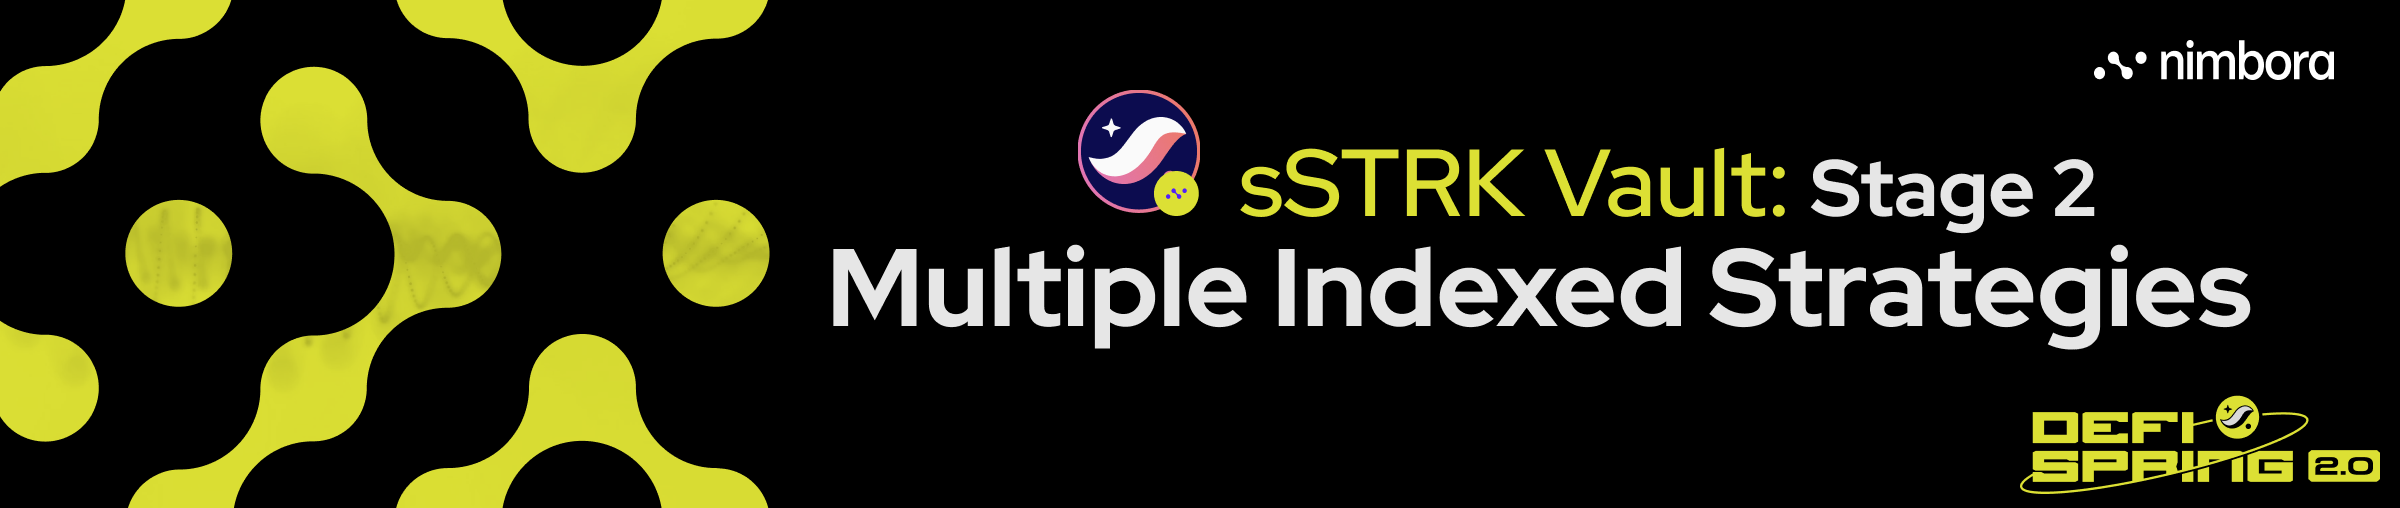
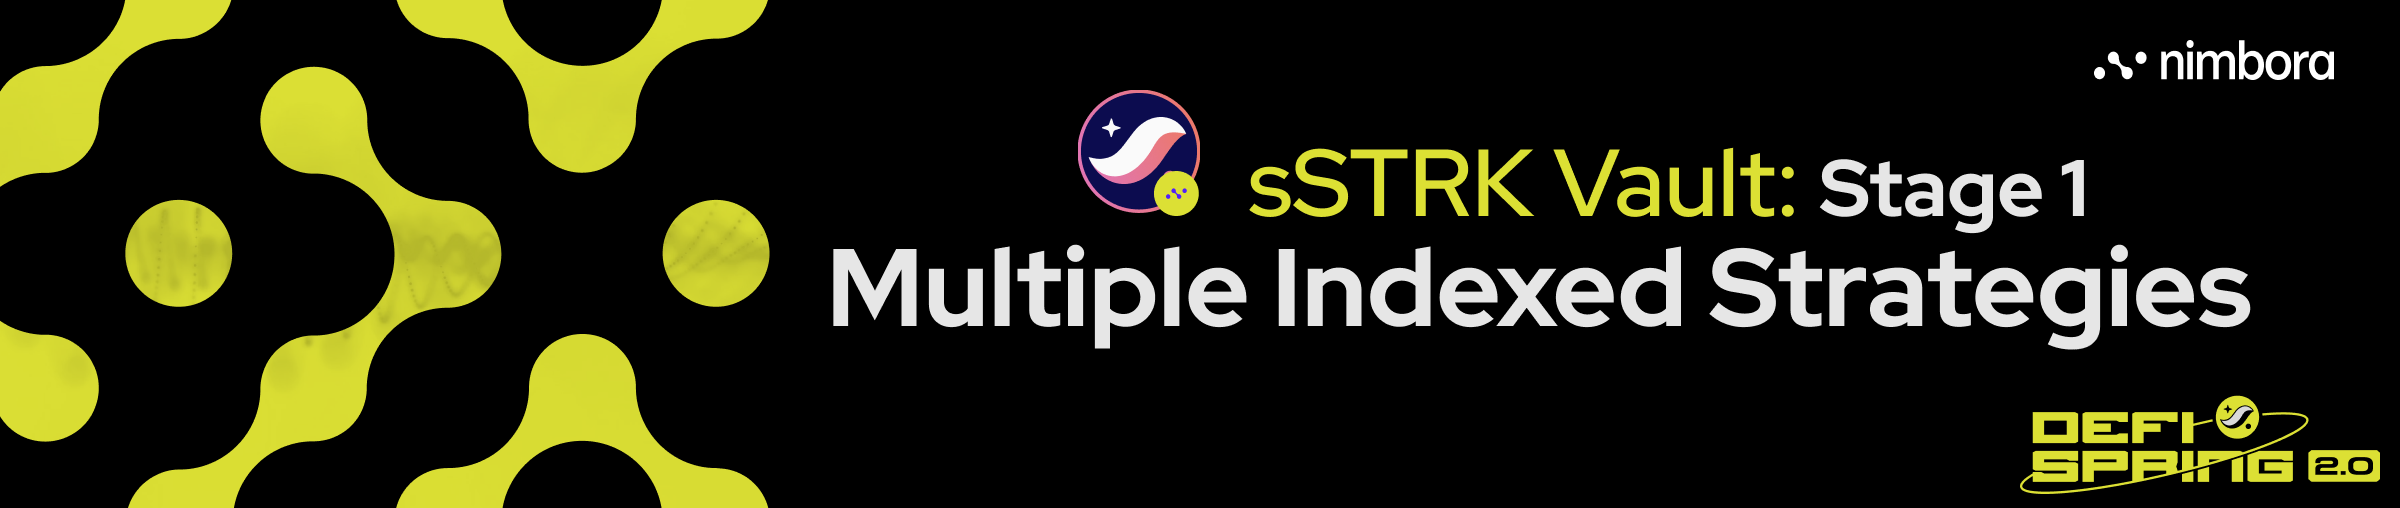
changes to sstrk

Changed region(s): [[0.5, 0.2953, 0.875, 0.4724]]

diff --git a/docs/concepts/products/earn/04-strategy-sstrk.md b/docs/concepts/products/earn/04-strategy-sstrk.md
@@ -8,6 +8,10 @@ sidebar_class_name: hidden
 # **Introducing the Savings STRK (sSTRK) Vault**
 ![Nimbora sSTRK vault](../../../../static/content/stategy_sstrk/sstrk%20vault.png)
 
+You've asked, and we've delivered!
+
+We're thrilled to announce the launch of the $sSTRK Vault, designed to maximize returns on $STRK for the entire Starknet ecosystem! 🐺
+
 ## **What is sSTRK?**
 ![What is STRK?](../../../../static/content/stategy_sstrk/what%20is%20strk.png)
 
@@ -31,17 +35,15 @@ The sSTRK vault comes with full modular contract and will have enhanced function
 We’re launching the genesis vault, and it will serve as the foundation for more advanced strategies in the future.
 ![sSTRK Vault](../../../../static/content/stategy_sstrk/vault.png)
 
-By depositing your STRK tokens into the vault, you will accumulate Nimbora points at 2x rate and grow your position within the Nimbora ecosystem.
-
-### Stage 1 - Simple Yield Strategy
-![Simple Yield Strategy](../../../../static/content/stategy_sstrk/simple%20yield%20strategy.png)
+By depositing your STRK tokens into the vault, you will earn yield and accumulate Nimbora points at 2x rate and grow your position within the Nimbora ecosystem. 
 
 
 We will funnel a part of the incentives to the sSTRK vault to enable yield for our users. This ensures that you continue to benefit from holding sSTRK while earning steady returns.
 
 We are the recipient of the [Starknet Catalyst grant](https://medium.com/@Nimbora/nimbora-and-starknet-catalyst-program-14cc7f2f1ab5) and some of our vaults are receiving incentives from the Starknet Foundation as a part of the [DeFi Spring 2.0](https://medium.com/@Nimbora/introducing-defi-spring-2-0-bigger-bolder-better-364bb96b02d6)
 
-### Stage 2 - Multiple Indexed Strategies
+
+### Stage 1 - Multiple Indexed Strategies
 ![Multiple Indexed Startegies](../../../../static/content/stategy_sstrk/multiple%20indexed%20strategies.png)
 
 When users deposit their STRK into the Savings STRK vault, the system actively employs advanced DeFi strategies to generate potential profits over time, optimizing their earning potential through automated and strategic investments.
@@ -50,8 +52,8 @@ When users deposit their STRK into the Savings STRK vault, the system actively e
 ![alt](/content/strategy_sstrk/overview.png)
 
 
-This strategy combines multiple steps into multiple protocol: 
-- Underling is deposited in the main vault.
+This strategy combines multiple steps: 
+- Underlaying asset is deposited in the main vault.
 - The amount deposited is split into the different strategies respecting the debt allocation provided by the debt manager.
 - Profits generated are periodically compounded and debt is reallocated dynamically following market conditions
 - Rewards from [DeFi Spring 2.0](https://medium.com/@Nimbora/introducing-defi-spring-2-0-bigger-bolder-better-364bb96b02d6) are automatically claimed and vested over a week into the strategy
